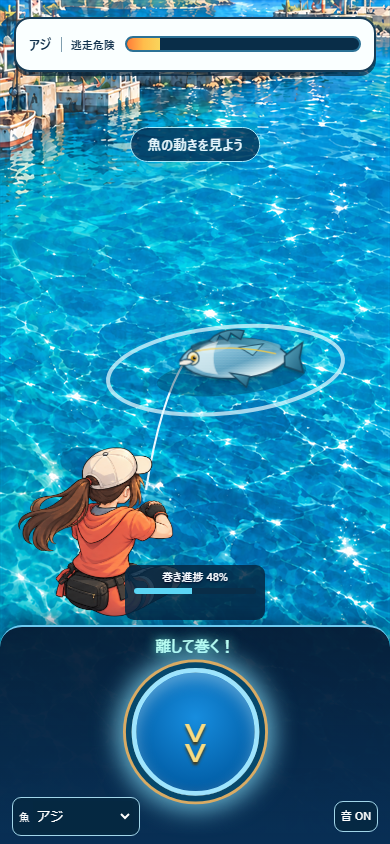
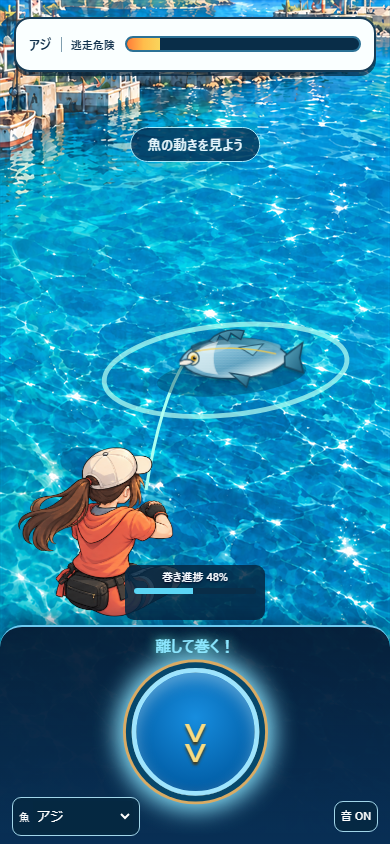
Sync fishing battle touch, line, light and sound

diff --git a/fishing-battle/game.js b/fishing-battle/game.js
@@ -1,6 +1,6 @@
 import { FISH, battleCue, createBattle, reelBattle, stepBattle } from './core.js';
 import { BattleAudio } from './audio.js';
-import { battlePose, outcomePose } from './visual.js';
+import { battlePose, interactionFeedback, outcomePose } from './visual.js';
 
 const $ = id => document.getElementById(id);
 const board = document.querySelector('.board'), canvas = $('sea'), ctx = canvas.getContext('2d');
@@ -23,7 +23,11 @@ sound.setMuted(muted);
 
 function feedback(events) {
   for (const event of events) {
-    if ((event === 'caught' || event === 'escaped') && outcomeAt === null) outcomeAt = performance.now();
+    if ((event === 'caught' || event === 'escaped') && outcomeAt === null) {
+      outcomeAt = performance.now();
+      pointerStart = null;
+      setPull(0);
+    }
     sound.play(event);
     if (['goodReel', 'goodOpening', 'badReel'].includes(event)) {
       flash = .35; impact = event;
@@ -78,12 +82,18 @@ let pointerStart = null;
 const controls = document.querySelector('.controls');
 function setPull(value) {
   pointerPull = Math.max(0, Math.min(110, value));
+  const response = interactionFeedback(state, pointerPull);
   controls.style.setProperty('--pull', `${Math.min(7, pointerPull * .06)}px`);
-  controls.classList.toggle('is-pulling', pointerPull > 8 && state.phase !== 'rage');
+  controls.style.setProperty('--tension', response.tension.toFixed(3));
+  controls.style.setProperty('--glow-size', `${Math.round(18 + response.tension * 14)}px`);
+  controls.style.setProperty('--pull-glow', response.danger ? '#ff976c' : '#8de7ff');
+  controls.classList.toggle('is-pulling', pointerPull > 8);
+  sound.setTension(pointerPull > 8 ? response.tension : 0, response.pitch);
 }
 board.addEventListener('pointerdown', e => {
   if (state.outcome || e.target.closest('.settings,.result') || (e.pointerType === 'mouse' && e.button !== 0)) return;
   if (pointerStart) return;
+  sound.unlock();
   pointerStart = { id: e.pointerId, x: e.clientX, y: e.clientY, onDial: Boolean(e.target.closest('#reel')) };
   board.setPointerCapture(e.pointerId);
 });
@@ -126,20 +136,20 @@ function draw(now) {
   ctx.clearRect(0, 0, 390, 844);
   const dt = last ? Math.min((now - last) / 1000, .05) : 0;
   const t = now / 1000, cue = battleCue(state), rage = cue === 'rage';
-  const pose = battlePose(state, cue, t, { reduced: reduced.matches, pull: pointerPull * 844 / rect.height, impact, flash });
+  const pose = battlePose(state, cue, t, { reduced: reduced.matches, pull: pointerPull * 844 / rect.height, tension: interactionFeedback(state, pointerPull).tension, impact, flash });
   const finaleProgress = state.outcome && outcomeAt !== null ? Math.min(1, Math.max(0, (now - outcomeAt) / (state.outcome === 'caught' ? 650 : 500))) : 0;
   const fish = outcomePose(pose, state.outcome, finaleProgress);
   const { fishX, fishY } = pose;
   const waterAlpha = 1 - finaleProgress;
   // AINAN's Battle composition keeps the hooked fish, player, water and line in one scene.
-  ctx.strokeStyle = rage || cue === 'warning' || impact === 'badReel' ? '#ffba69' : '#e8f8ff';
-  ctx.lineWidth = rage || cue === 'warning' ? 2.3 : 1.5 + pose.pull * .055;
+  ctx.strokeStyle = pointerPull > 8 ? rage ? '#ff9568' : '#a9fff1' : rage || cue === 'warning' || impact === 'badReel' ? '#ffba69' : '#e8f8ff';
+  ctx.lineWidth = (rage || cue === 'warning' ? 2.3 : 1.5 + pose.pull * .055) + pose.tension * 2;
   ctx.globalAlpha = fish.alpha;
   ctx.beginPath(); ctx.moveTo(146, 490); ctx.quadraticCurveTo(pose.lineControlX, pose.lineControlY, fish.fishX + 20, fish.fishY + 45); ctx.stroke();
   ctx.globalAlpha = waterAlpha;
   ctx.fillStyle = '#00385466';
   ctx.beginPath(); ctx.ellipse(fishX + 66, fishY + 61, 75, 19, -.1, 0, Math.PI * 2); ctx.fill();
-  ctx.strokeStyle = cue === 'opening' ? '#b6fff3' : '#e4faff'; ctx.lineWidth = cue === 'opening' ? 5 : rage ? 5 : 4;
+  ctx.strokeStyle = pointerPull > 8 ? rage ? '#ffb28c' : '#b6fff3' : cue === 'opening' ? '#b6fff3' : '#e4faff'; ctx.lineWidth = (cue === 'opening' ? 5 : rage ? 5 : 4) + pose.tension * 2;
   ctx.globalAlpha = waterAlpha * (rage || cue === 'opening' ? .93 : .72);
   ctx.beginPath(); ctx.ellipse(fishX + 60, fishY + 55, pose.ringWidth, pose.ringHeight, -.1, 0, Math.PI * 2); ctx.stroke();
   if (cue === 'opening') {
@@ -171,9 +181,11 @@ function draw(now) {
   flash = Math.max(0, flash - dt);
   if (!flash) impact = '';
   if (last && !document.hidden) {
+    const previousEscape = state.escape;
     stepBattle(state, dt);
     if (state.events.length) { feedback(state.events); state.events = []; }
     const nextCue = battleCue(state);
+    if (pointerPull > 8 && (nextCue !== previousCue || state.escape !== previousEscape)) setPull(pointerPull);
     if (nextCue === 'warning' && previousCue !== 'warning') feedback(['warning']);
     previousCue = nextCue;
     syncUI();

diff --git a/fishing-battle/visual.js b/fishing-battle/visual.js
@@ -2,8 +2,22 @@ import { FISH } from './core.js';
 
 const clamp = (value, min, max) => Math.max(min, Math.min(max, value));
 
+// One response curve drives the held control, line and sound from the actual fight.
+export function interactionFeedback(state, pull) {
+  const amount = clamp(pull / 90, 0, 1);
+  const danger = state.phase === 'rage';
+  const pressure = clamp((state.escape - 45) / 55, 0, 1);
+  const tension = amount * (danger ? 1 : .44 + pressure * .36);
+  return {
+    amount,
+    tension,
+    danger,
+    pitch: danger ? 175 + amount * 55 : 315 + amount * 165 + pressure * 35,
+  };
+}
+
 // Canvas-space pose. Visual pull and recoil never change the battle state.
-export function battlePose(state, cue, seconds, { reduced = false, pull = 0, impact = '', flash = 0 } = {}) {
+export function battlePose(state, cue, seconds, { reduced = false, pull = 0, tension = interactionFeedback(state, pull).tension, impact = '', flash = 0 } = {}) {
   const fish = FISH[state.fishId];
   const rage = cue === 'rage', warning = cue === 'warning', opening = cue === 'opening';
   const speed = rage ? 5 + fish.speed * 2 : warning ? 3.8 : 2.6;
@@ -17,11 +31,12 @@ export function battlePose(state, cue, seconds, { reduced = false, pull = 0, imp
   return {
     fishX, fishY,
     angle: reduced ? 0 : wave * (rage ? .1 : warning ? .045 : .017) + (impact === 'badReel' ? .08 : impact ? -.06 : 0) * clamp(flash / .35, 0, 1),
-    ringWidth: rage ? 128 + fish.strength * 4 : warning ? 124 : opening ? 107 : 118,
-    ringHeight: rage ? 52 : warning ? 47 : opening ? 38 : 43,
+    ringWidth: (rage ? 128 + fish.strength * 4 : warning ? 124 : opening ? 107 : 118) + tension * 9,
+    ringHeight: (rage ? 52 : warning ? 47 : opening ? 38 : 43) + tension * 4,
     lineControlX: opening ? 173 : rage || warning ? 154 : 160,
     lineControlY: opening ? 425 : rage || warning ? 383 : 400,
     pull: handPull,
+    tension,
     run,
   };
 }

diff --git a/fishing-battle/audio.js b/fishing-battle/audio.js
@@ -11,6 +11,8 @@ export class BattleAudio {
     this.hidden = false;
     this.voices = new Set();
     this.timers = new Set();
+    this.tensionVoice = null;
+    this.tensionGain = null;
   }
 
   unlock() {
@@ -50,9 +52,41 @@ export class BattleAudio {
       try { voice.stop(); } catch {}
     }
     this.voices.clear();
+    this.tensionVoice = null;
+    this.tensionGain = null;
   }
 
   reset() { this.silence(); }
+
+  setTension(level, pitch = 320) {
+    if (!this.unlocked || this.muted || this.hidden || !this.context) return false;
+    if (level <= 0) {
+      if (this.tensionVoice) {
+        try { this.tensionVoice.stop(); } catch {}
+        this.voices.delete(this.tensionVoice);
+        this.tensionVoice = null;
+        this.tensionGain = null;
+      }
+      return false;
+    }
+    try {
+      const time = this.context.currentTime;
+      if (!this.tensionVoice) {
+        const voice = this.context.createOscillator(), gain = this.context.createGain();
+        voice.type = 'triangle';
+        gain.gain.setValueAtTime(.001, time);
+        voice.connect(gain).connect(this.context.destination);
+        voice.start(time);
+        this.tensionVoice = voice;
+        this.tensionGain = gain;
+        this.voices.add(voice);
+        voice.onended = () => this.voices.delete(voice);
+      }
+      this.tensionVoice.frequency.setValueAtTime(pitch, time);
+      this.tensionGain.gain.exponentialRampToValueAtTime(.003 + Math.min(level, 1) * .018, time + .04);
+      return true;
+    } catch { return false; }
+  }
 
   note(start, end, duration, type = 'sine', peak = .035) {
     if (!this.unlocked || this.muted || this.hidden || !this.context) return false;

diff --git a/fishing-battle/style.css b/fishing-battle/style.css
@@ -4,3 +4,4 @@
 .controls.is-pulling #reel{transform:translateY(var(--pull,0px)) scale(.96);box-shadow:0 0 0 6px #06486c,0 0 0 9px #d9ab64,0 0 26px 15px #8de7ffbb,inset 0 7px 16px #c1ebff70}.controls.is-pulling #hint{color:#bcfff2;text-shadow:0 0 12px #63f2df}@media(prefers-reduced-motion:reduce){.controls.is-pulling #reel{transform:none}}
 @media(min-height:701px){.controls p{margin:8px 0 4px}#reel{width:min(34vw,136px);height:min(34vw,136px)}}@media(max-height:700px){.controls.is-pulling #reel{transform:translateY(-4px) scale(.94)}}
 .cue.finale-caught{background:#075f65f0;border-color:#c9ffe8;box-shadow:0 0 22px #86ffe77a}.cue.finale-escaped{background:#713738ef;border-color:#ffc7b4}
+.controls.is-pulling #reel{box-shadow:0 0 0 6px #06486c,0 0 0 9px #d9ab64,0 0 var(--glow-size,18px) 15px var(--pull-glow,#8de7ff),inset 0 7px 16px #c1ebff70}.controls.is-pulling #hint{color:var(--pull-glow,#bcfff2)}
